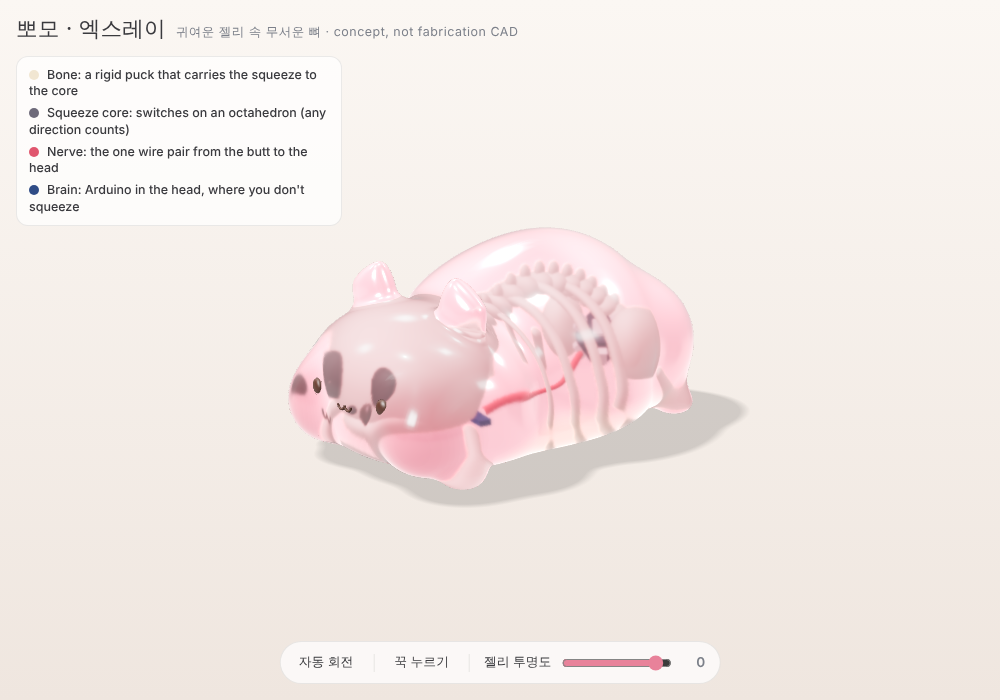
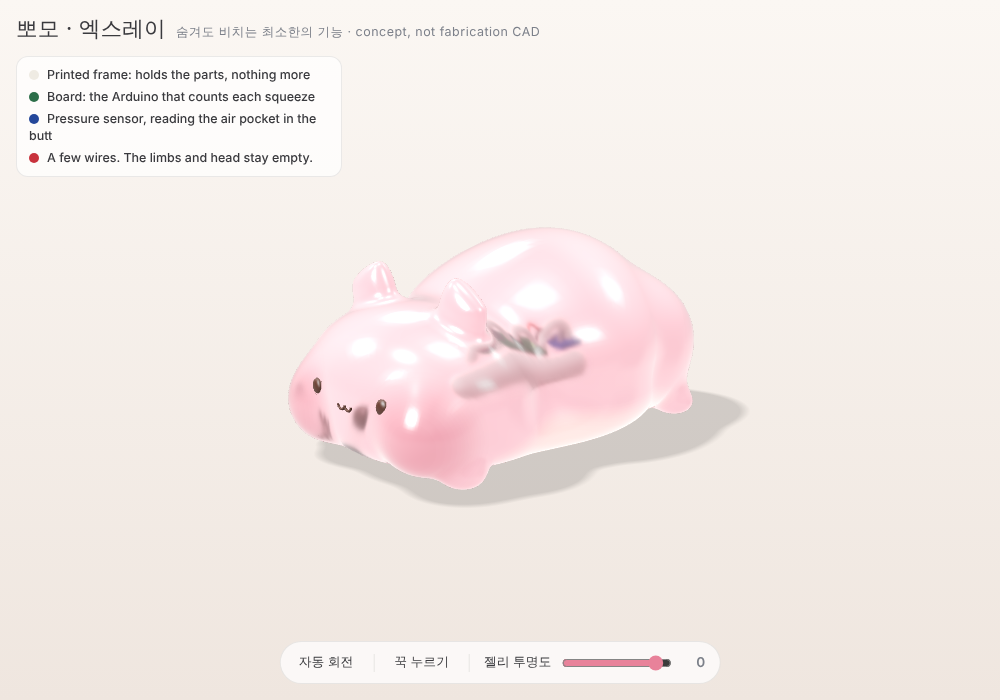
Ppomo X-ray: replace anatomical skeleton with a minimal functional core (printed frame, board, sensor, air pocket) in frosted jelly
Claude-Session: https://claude.ai/code/session_01KDvbePoQSCswEvmDQpWvZS

Changed region(s): [[0.279, 0.36, 0.682, 0.66], [0.031, 0.09, 0.341, 0.3], [0.186, 0.03, 0.527, 0.06]]

diff --git a/characters/ppomo-cat/ppomo-xray.html b/characters/ppomo-cat/ppomo-xray.html
@@ -78,7 +78,7 @@
 <div id="stage"></div>
 <header>
   <h1>뽀모 · 엑스레이</h1>
-  <span>귀여운 젤리 속 무서운 뼈 · concept, not fabrication CAD</span>
+  <span>숨겨도 비치는 최소한의 기능 · concept, not fabrication CAD</span>
 </header>
 <div class="controls" role="toolbar" aria-label="보기 설정">
   <button id="btn-rotate" type="button" aria-pressed="true">자동 회전</button>
@@ -90,10 +90,10 @@
 </div>
 <div id="sheet-labels"></div>
 <div class="legend" aria-label="Legend">
-  <div><i style="background:#F1E6D2"></i>Bone: a rigid puck that carries the squeeze to the core</div>
-  <div><i style="background:#6E6A7A"></i>Squeeze core: switches on an octahedron (any direction counts)</div>
-  <div><i style="background:#E0566E"></i>Nerve: the one wire pair from the butt to the head</div>
-  <div><i style="background:#2F4C86"></i>Brain: Arduino in the head, where you don't squeeze</div>
+  <div><i style="background:#EFEBE3"></i>Printed frame: holds the parts, nothing more</div>
+  <div><i style="background:#2C6E49"></i>Board: the Arduino that counts each squeeze</div>
+  <div><i style="background:#24479A"></i>Pressure sensor, reading the air pocket in the butt</div>
+  <div><i style="background:#C8323C"></i>A few wires. The limbs and head stay empty.</div>
 </div>
 
 <script type="importmap">
@@ -299,8 +299,8 @@ const silicone = (extra = {}) => new THREE.MeshPhysicalMaterial({
 });
 // every fur part shares one material; its colour comes from per-vertex pastel blooms (see recolor)
 const furMat = new THREE.MeshPhysicalMaterial({        // translucent pink jelly: you can see the bones inside
-  color: 0xffffff, vertexColors: true, roughness: 0.06, transmission: 0.92, thickness: 0.35, ior: 1.33,
-  attenuationColor: new THREE.Color('#EC8CA2'), attenuationDistance: 1.3, clearcoat: 0.6, clearcoatRoughness: 0.2,
+  color: 0xffffff, vertexColors: true, roughness: 0.22, transmission: 0.92, thickness: 0.45, ior: 1.33,
+  attenuationColor: new THREE.Color('#EC8CA2'), attenuationDistance: 1.8, clearcoat: 0.6, clearcoatRoughness: 0.2,
   sheen: 0.2, sheenColor: new THREE.Color(0xffffff),
 });
 const inkMat = new THREE.MeshPhysicalMaterial({ color: PAL.ink, roughness: 0.3, clearcoat: 0.6, clearcoatRoughness: 0.3 });
@@ -408,88 +408,55 @@ for (const side of [-1, 1]) {
 const placeFace = () => face.forEach((f) => f());
 placeFace();
 
-// ---------- inside: a cute-but-creepy skeleton, the squeeze core and the nerve ----------
-// web coords: y up, z forward (face). All shapes are simple and rounded on purpose: cartoon bones, not anatomy.
-const boneMat = new THREE.MeshStandardMaterial({ color: 0xFFF6E6, roughness: 0.5, emissive: 0x5A4A3A, emissiveIntensity: 0.25 });
-const socketMat = new THREE.MeshStandardMaterial({ color: 0x3A2A28, roughness: 0.8 });
-const coreMat = new THREE.MeshStandardMaterial({ color: 0x6E6A7A, roughness: 0.35, metalness: 0.3 });
-const capMat = new THREE.MeshStandardMaterial({ color: 0xF7F3EE, roughness: 0.4 });
-const nerveMat = new THREE.MeshStandardMaterial({ color: 0xE0566E, roughness: 0.4, emissive: 0xE0566E, emissiveIntensity: 0.15 });
-const boardMat = new THREE.MeshStandardMaterial({ color: 0x2F4C86, roughness: 0.5 });
+// ---------- inside: only what Ppomo needs to work, gathered in the middle of the body ----------
+// Not anatomy and not decoration: one printed frame, one board, one pressure sensor, a few plain wires,
+// and the air pocket it reads. The limbs and head stay empty jelly. Through the frosted body it is faint:
+// the character is the focus, the parts are secondary, like a fear that shows through without being chosen.
+// web coords: y up, z forward (face).
+const printMat = new THREE.MeshStandardMaterial({ color: 0xEFEBE3, roughness: 0.7 });          // white PLA
+const pcbMat = new THREE.MeshStandardMaterial({ color: 0x2C6E49, roughness: 0.55 });            // plain green board
+const chipMat = new THREE.MeshStandardMaterial({ color: 0x1E1E22, roughness: 0.4 });
+const metalMat = new THREE.MeshStandardMaterial({ color: 0xBFC3C8, roughness: 0.3, metalness: 0.8 });
+const sensorMat = new THREE.MeshStandardMaterial({ color: 0x24479A, roughness: 0.5 });
+const ledMat = new THREE.MeshStandardMaterial({ color: 0x9BE89B, emissive: 0x6BEA6B, emissiveIntensity: 0.2 });
+const pocketMat = new THREE.MeshStandardMaterial({ color: 0xFFFFFF, roughness: 0.3, transparent: true, opacity: 0.35 });
+const tubeMat = new THREE.MeshStandardMaterial({ color: 0xE8ECEF, roughness: 0.3, transparent: true, opacity: 0.8 });
 const inside = new THREE.Group(); inside.name = 'inside';
 ppomo.add(inside);
-const blob = (mat, x, y, z, sx, sy, sz) => { const m = ball(mat, 1, sx, sy, sz); m.position.set(x, y, z); m.castShadow = true; inside.add(m); return m; };
+const add = (geo, mat, x, y, z) => { const m = new THREE.Mesh(geo, mat); m.position.set(x, y, z); inside.add(m); return m; };
+const roundBar = (len, w, h, mat, x, y, z) => add(new THREE.CapsuleGeometry(Math.min(w, h) / 2, len, 6, 12), mat, x, y, z);
 
-// skull with big round eye sockets right behind the face
-blob(boneMat, 0, 0.44, 0.54, 0.36, 0.27, 0.28);
-blob(boneMat, 0, 0.27, 0.60, 0.24, 0.08, 0.19);               // little jaw
-for (const s of [-1, 1]) blob(socketMat, s * 0.14, 0.45, 0.79, 0.075, 0.08, 0.035);
-blob(socketMat, 0, 0.36, 0.83, 0.025, 0.02, 0.015);           // nose hole
-
-// spine: a chain of rounded vertebrae from the skull to the tail
-const spine = new THREE.CatmullRomCurve3([
-  new THREE.Vector3(0, 0.46, 0.28), new THREE.Vector3(0, 0.58, 0.02), new THREE.Vector3(0, 0.68, -0.28),
-  new THREE.Vector3(0, 0.62, -0.58), new THREE.Vector3(0, 0.44, -0.86),
-]);
-for (let i = 0; i <= 13; i++) {
-  const t = i / 13, p = spine.getPointAt(t), tan = spine.getTangentAt(t);
-  const v = blob(boneMat, p.x, p.y, p.z, 0.075, 0.055, 0.04);
-  v.lookAt(p.clone().add(tan));
-  const spike = blob(boneMat, p.x, p.y + 0.06, p.z, 0.025, 0.04, 0.025);   // little bump on top
+// printed frame: one plain bar along the belly with three clips, slightly bone-like but only structural
+const frame = roundBar(0.62, 0.07, 0.07, printMat, 0, 0.30, -0.18);
+frame.rotation.x = Math.PI / 2;
+for (const z of [0.02, -0.18, -0.38]) {
+  const clip = add(new THREE.TorusGeometry(0.075, 0.016, 8, 24, Math.PI), printMat, 0, 0.36, z);
+  clip.rotation.y = Math.PI / 2;
 }
-
-// ribs: arcs hanging from the spine around the body
-for (const [z, r] of [[0.02, 0.34], [-0.14, 0.40], [-0.30, 0.42], [-0.46, 0.38]]) {
-  let best = 0, bestD = 9;
-  for (let i = 0; i <= 100; i++) { const d = Math.abs(spine.getPointAt(i / 100).z - z); if (d < bestD) { bestD = d; best = i / 100; } }
-  const top = spine.getPointAt(best);
-  const rib = new THREE.Mesh(new THREE.TorusGeometry(r, 0.022, 10, 40, Math.PI * 1.22), boneMat);
-  rib.rotation.z = -Math.PI * 0.11;                             // arc goes over the top and down both sides
-  rib.position.set(0, top.y - r, z);
-  rib.castShadow = true;
-  inside.add(rib);
-}
-
-// legs: short bones into the paws and feet
-const legBone = (a, b) => {
-  const dir = b.clone().sub(a), len = dir.length();
-  const m = new THREE.Mesh(new THREE.CapsuleGeometry(0.032, len, 6, 12), boneMat);
-  m.position.copy(a).add(b).multiplyScalar(0.5);
-  m.quaternion.setFromUnitVectors(new THREE.Vector3(0, 1, 0), dir.normalize());
-  inside.add(m);
+// one small board on the frame, with a chip, a USB port and a status LED
+add(new THREE.BoxGeometry(0.11, 0.014, 0.30), pcbMat, 0, 0.375, -0.12);
+add(new THREE.BoxGeometry(0.05, 0.012, 0.05), chipMat, 0, 0.388, -0.10);
+add(new THREE.BoxGeometry(0.045, 0.02, 0.04), metalMat, 0, 0.392, 0.03);
+const led = add(new THREE.SphereGeometry(0.009, 10, 8), ledMat, 0.035, 0.388, -0.2);
+// pressure sensor at the back end of the frame
+add(new THREE.BoxGeometry(0.09, 0.014, 0.09), sensorMat, 0, 0.375, -0.42);
+const port = add(new THREE.CylinderGeometry(0.012, 0.012, 0.04, 12), metalMat, 0, 0.40, -0.42);
+// a few plain wires from the board to the sensor
+const wire = (dx, color) => {
+  const c = new THREE.CatmullRomCurve3([new THREE.Vector3(dx, 0.39, -0.26), new THREE.Vector3(dx * 2, 0.43, -0.32), new THREE.Vector3(dx, 0.39, -0.38)]);
+  inside.add(new THREE.Mesh(new THREE.TubeGeometry(c, 16, 0.005, 6, false), new THREE.MeshStandardMaterial({ color, roughness: 0.5 })));
 };
-for (const s of [-1, 1]) {
-  legBone(new THREE.Vector3(s * 0.36, 0.26, 0.58), new THREE.Vector3(s * 0.50, 0.09, 0.70));
-  legBone(new THREE.Vector3(s * 0.38, 0.30, -0.72), new THREE.Vector3(s * 0.52, 0.09, -0.86));
-}
+wire(-0.03, 0xC8323C); wire(0, 0x222222); wire(0.03, 0xD8D8D8);
+// the air pocket in the butt and the tube that carries its pressure to the sensor
+const pocket = add(new THREE.SphereGeometry(1, 32, 20), pocketMat, 0, 0.36, -0.72);
+pocket.scale.set(0.22, 0.17, 0.17);
+const tube = new THREE.CatmullRomCurve3([new THREE.Vector3(0, 0.42, -0.42), new THREE.Vector3(0, 0.46, -0.52), new THREE.Vector3(0, 0.40, -0.58)]);
+inside.add(new THREE.Mesh(new THREE.TubeGeometry(tube, 16, 0.013, 8, false), tubeMat));
+// the whole core 1.35x larger around the belly centre so the board reads through the jelly
+inside.scale.setScalar(1.35);
+inside.position.set(0, 0.35 * (1 - 1.35), -0.2 * (1 - 1.35));
 
-// pelvis: two hip bones that press on the squeeze core
-for (const s of [-1, 1]) blob(boneMat, s * 0.21, 0.38, -0.74, 0.11, 0.15, 0.10);
-
-// squeeze core: an octahedron with a key switch on each of its 8 faces
-const CORE = new THREE.Vector3(0, 0.36, -0.76);
-const core = new THREE.Mesh(new THREE.OctahedronGeometry(0.15), coreMat);
-core.position.copy(CORE); core.castShadow = true; inside.add(core);
-const caps = [];
-for (const sx of [-1, 1]) for (const sy of [-1, 1]) for (const sz of [-1, 1]) {
-  const n = new THREE.Vector3(sx, sy, sz).normalize();
-  const cap = new THREE.Mesh(new THREE.BoxGeometry(0.065, 0.065, 0.03), capMat);
-  cap.userData.n = n;
-  cap.position.copy(CORE).addScaledVector(n, 0.105);
-  cap.lookAt(cap.position.clone().add(n));
-  inside.add(cap); caps.push(cap);
-}
-
-// brain: the Arduino board in the head, and the nerve (one wire pair) from the core to it
-const board = new THREE.Mesh(new THREE.BoxGeometry(0.2, 0.025, 0.09), boardMat);
-board.position.set(0, 0.17, 0.22); inside.add(board);
-const nerve = new THREE.CatmullRomCurve3([
-  CORE.clone().add(new THREE.Vector3(0, -0.05, 0.12)), new THREE.Vector3(0.05, 0.22, -0.40),
-  new THREE.Vector3(-0.04, 0.17, -0.05), new THREE.Vector3(0, 0.17, 0.12),
-]);
-inside.add(new THREE.Mesh(new THREE.TubeGeometry(nerve, 60, 0.014, 8, false), nerveMat));
-
-// ---------- squeeze: the jelly squashes, the bones press the keys, the nerve lights up ----------
+// ---------- squeeze: the jelly squashes, the air pocket is pressed, the board's LED blinks ----------
 let squeezeT = 0, squeezes = 0;
 const countEl = document.getElementById('squeeze-count');
 function squeeze() { squeezeT = 1; squeezes++; countEl.textContent = squeezes; }
@@ -500,8 +467,8 @@ function animateSqueeze() {
   squeezeT = Math.max(0, squeezeT - 0.04);
   const s = Math.sin(squeezeT * Math.PI);                       // 0 -> 1 -> 0
   ppomo.scale.set(1 + 0.05 * s, 1 - 0.09 * s, 1 + 0.03 * s);
-  for (const c of caps) c.position.copy(CORE).addScaledVector(c.userData.n, 0.105 - 0.018 * s);
-  nerveMat.emissiveIntensity = 0.15 + 1.6 * s;
+  pocket.scale.set(0.22 * (1 + 0.05 * s), 0.17 * (1 - 0.3 * s), 0.17 * (1 - 0.15 * s));
+  ledMat.emissiveIntensity = 0.2 + 2.5 * s;
 }
 
 // per-part scale (빵빵폼): e.g. ppomo.setScale('cheekL', 1.3) — the field is re-meshed so seams stay smooth
